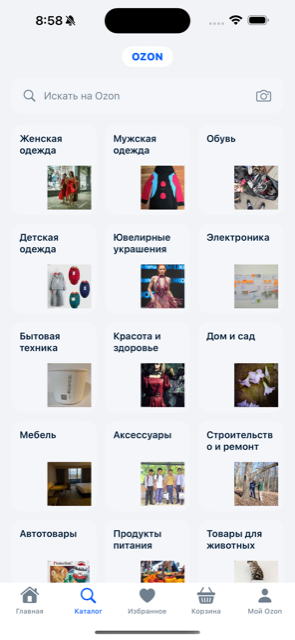
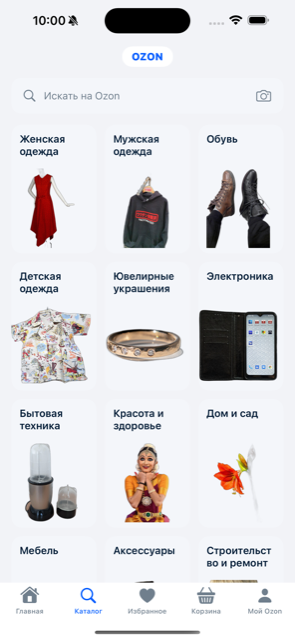
Catalog: transparent product cutouts + taller cards
Replace busy full-bleed category thumbnails with rembg background-removed
product cutouts (transparent PNG) sourced from Wikimedia Commons, auto-picked
by subject coverage. CategoryCard reframed to match reference: taller card
(188pt), large product image bottom-right, .fit over the light card.

diff --git a/OzonStyle/Components/CategoryCard.swift b/OzonStyle/Components/CategoryCard.swift
@@ -1,25 +1,29 @@
 import SwiftUI
 
-// Category tile (design.md §3.6). Label top-left, image bleeds lower-right.
+// Category tile (design.md §3.6). Label top-left; product cutout fills the lower
+// portion, bottom-right, `.fit` (transparent PNG over the light card).
 struct CategoryCard: View {
     let category: Category
 
     var body: some View {
         ZStack(alignment: .topLeading) {
             Color.searchFill
+
             ProductImage(name: category.imageName, contentMode: .fit)
-                .frame(width: 64, height: 64)
+                .frame(maxWidth: .infinity, maxHeight: 116)
                 .frame(maxWidth: .infinity, maxHeight: .infinity, alignment: .bottomTrailing)
-                .padding(8)
+                .padding(.trailing, 8)
+                .padding(.bottom, 8)
+
             Text(category.title)
-                .font(.system(size: 14, weight: .semibold))
+                .font(.system(size: 15, weight: .semibold))
                 .foregroundStyle(.textPrimary)
                 .lineLimit(2)
                 .multilineTextAlignment(.leading)
                 .fixedSize(horizontal: false, vertical: true)
                 .padding(12)
         }
-        .frame(height: 132)
+        .frame(height: 188)
         .clipShape(RoundedRectangle(cornerRadius: 16))
     }
 }
